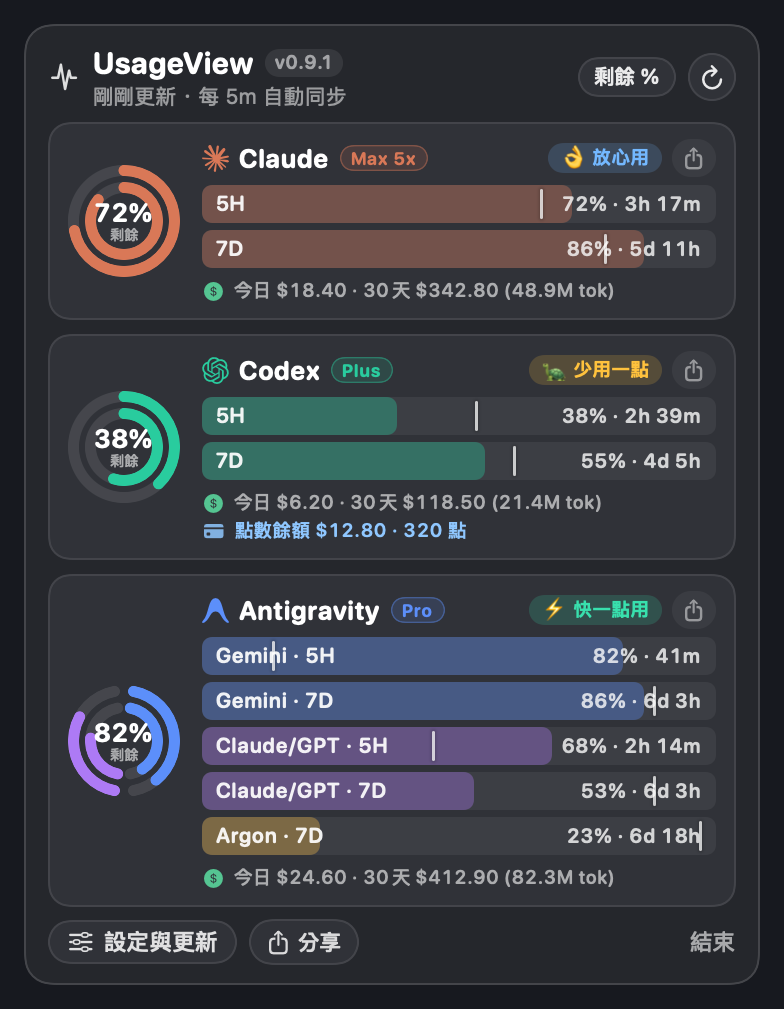
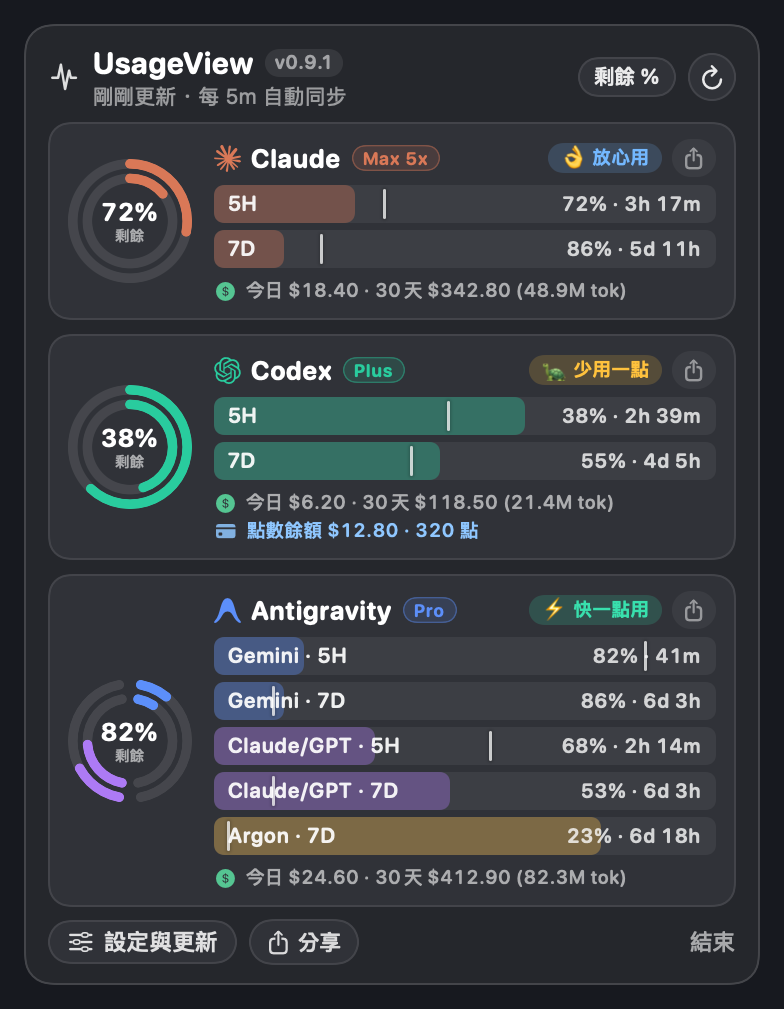
feat(ui): enlarge dual ring gauge to fit numbers inside and fix progress bar to usage gauge

diff --git a/Sources/QuotaBar/Views/RingGaugeView.swift b/Sources/QuotaBar/Views/RingGaugeView.swift
@@ -160,8 +160,8 @@ struct DualRingGauge: View {
     let provider: ProviderID
     let lines: [MetricLine]
     let showRemaining: Bool
-    var size: CGFloat = 56
-    var lineWidth: CGFloat = 5.5
+    var size: CGFloat = 62
+    var lineWidth: CGFloat = 4.8
 
     private var sessionUsed: Double {
         if provider == .antigravity,
@@ -181,7 +181,7 @@ struct DualRingGauge: View {
     }
 
     private var innerInset: CGFloat {
-        size < 24 ? (lineWidth + 1.2) : (lineWidth + 3.0)
+        size < 24 ? (lineWidth + 1.2) : (lineWidth + 2.5)
     }
 
     var body: some View {
@@ -198,14 +198,14 @@ struct DualRingGauge: View {
                 }
             }
 
-            if size >= 46 {
-                VStack(spacing: -1) {
+            if size >= 44 {
+                VStack(spacing: 0) {
                     Text(Theme.formattedPercent(sessionUsed, showRemaining: showRemaining))
-                        .font(.system(size: size * 0.23, weight: .bold, design: .rounded))
+                        .font(.system(size: size * 0.20, weight: .bold, design: .rounded))
                         .foregroundStyle(.white)
                         .monospacedDigit()
-                    Text(showRemaining ? "剩餘" : "5h")
-                        .font(.system(size: size * 0.13, weight: .medium, design: .rounded))
+                    Text(showRemaining ? "剩餘" : "已用")
+                        .font(.system(size: size * 0.12, weight: .medium, design: .rounded))
                         .foregroundStyle(.white.opacity(0.60))
                 }
             }
@@ -222,8 +222,7 @@ struct DualRingGauge: View {
     @ViewBuilder
     private func singleRing(used: Double, inset: CGFloat) -> some View {
         let color = Theme.ringColor(for: provider, usedPercent: used)
-        let displayVal = showRemaining ? max(0, 100.0 - used) : used
-        let progress = min(max(displayVal / 100, 0.005), 1)
+        let progress = min(max(used / 100, 0.005), 1)
         ZStack {
             Circle()
                 .inset(by: inset + lineWidth / 2)
@@ -243,9 +242,6 @@ struct DualRingGauge: View {
         let c1 = Theme.ringColor(for: .antigravity, usedPercent: geminiUsed, secondaryPool: false)
         let c2 = Theme.ringColor(for: .antigravity, usedPercent: thirdPartyUsed, secondaryPool: true)
 
-        let gDisplay = showRemaining ? max(0, 100.0 - geminiUsed) : geminiUsed
-        let tpDisplay = showRemaining ? max(0, 100.0 - thirdPartyUsed) : thirdPartyUsed
-
         ZStack {
             Circle()
                 .inset(by: inset + lineWidth / 2)
@@ -254,7 +250,7 @@ struct DualRingGauge: View {
                 .rotationEffect(.degrees(-90))
             Circle()
                 .inset(by: inset + lineWidth / 2)
-                .trim(from: 0.03, to: 0.03 + 0.44 * min(max(gDisplay / 100, 0.01), 1))
+                .trim(from: 0.03, to: 0.03 + 0.44 * min(max(geminiUsed / 100, 0.01), 1))
                 .stroke(c1, style: StrokeStyle(lineWidth: lineWidth, lineCap: .round))
                 .rotationEffect(.degrees(-90))
 
@@ -265,7 +261,7 @@ struct DualRingGauge: View {
                 .rotationEffect(.degrees(-90))
             Circle()
                 .inset(by: inset + lineWidth / 2)
-                .trim(from: 0.53, to: 0.53 + 0.44 * min(max(tpDisplay / 100, 0.01), 1))
+                .trim(from: 0.53, to: 0.53 + 0.44 * min(max(thirdPartyUsed / 100, 0.01), 1))
                 .stroke(c2, style: StrokeStyle(lineWidth: lineWidth, lineCap: .round))
                 .rotationEffect(.degrees(-90))
         }

diff --git a/Sources/QuotaBar/Views/DashboardView.swift b/Sources/QuotaBar/Views/DashboardView.swift
@@ -250,7 +250,7 @@ struct ProviderCardView: View {
 
     var body: some View {
         HStack(alignment: .center, spacing: 11) {
-            DualRingGauge(provider: provider, lines: lines, showRemaining: showRemaining, size: 56, lineWidth: 5.5)
+            DualRingGauge(provider: provider, lines: lines, showRemaining: showRemaining, size: 62, lineWidth: 4.8)
                 .opacity(state.isStale ? 0.65 : 1.0)
                 .onTapGesture(perform: onToggleMode)
 
@@ -628,10 +628,12 @@ private struct MetricBarRow: View {
 
     var body: some View {
         GeometryReader { geo in
-            let barFraction = showRemaining ? (line.remainingPercent / 100.0) : (line.usedPercent / 100.0)
+            // Progress bar always indicates usage (消耗量：用越多越長，越滿越接近警示色)
+            let barFraction = line.usedPercent / 100.0
             let fillWidth = max(barFraction > 0.005 ? 4 : 0, geo.size.width * CGFloat(barFraction))
+            // White time tick always indicates time elapsed from left (0%) to right (100%)
             let elapsedFraction = line.timeElapsedFraction()
-            let tickFraction = elapsedFraction.map { showRemaining ? (1.0 - $0) : $0 }
+            let tickFraction = elapsedFraction
 
             ZStack(alignment: .leading) {
                 RoundedRectangle(cornerRadius: 5, style: .continuous)
@@ -640,7 +642,7 @@ private struct MetricBarRow: View {
                     .fill(color.opacity(0.35))
                     .frame(width: fillWidth)
 
-                // Even-pace time tick mark matching the current display direction (Remaining vs Used)
+                // Even-pace time tick mark (where steady linear usage would be right now)
                 if let tick = tickFraction {
                     let tickX = min(max(3, geo.size.width * CGFloat(tick)), geo.size.width - 3)
                     RoundedRectangle(cornerRadius: 1)
